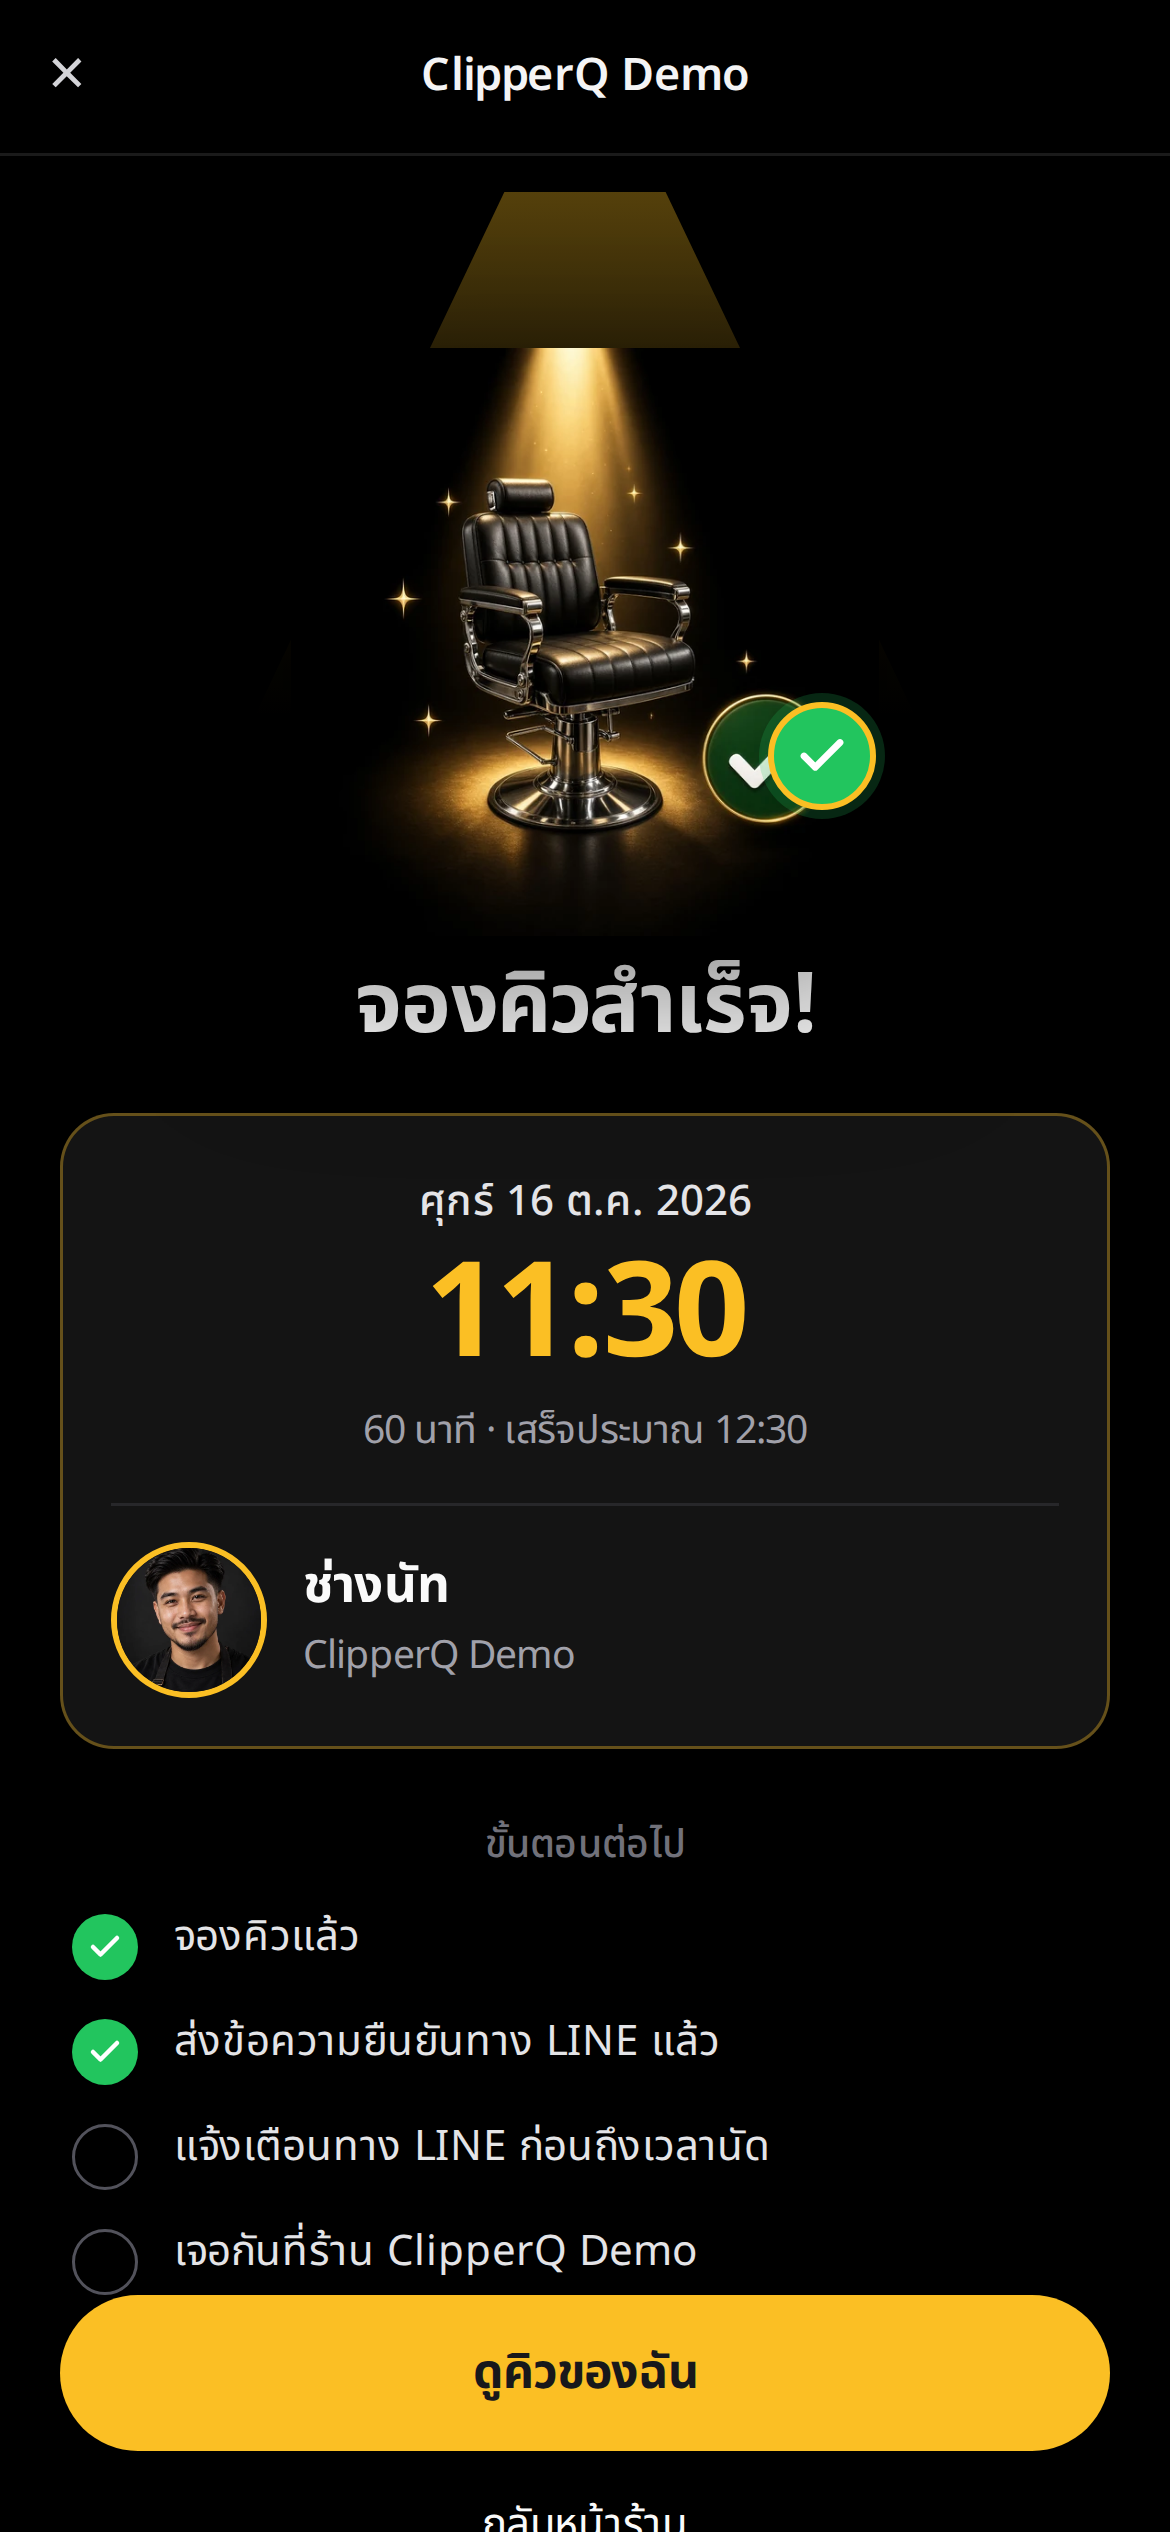
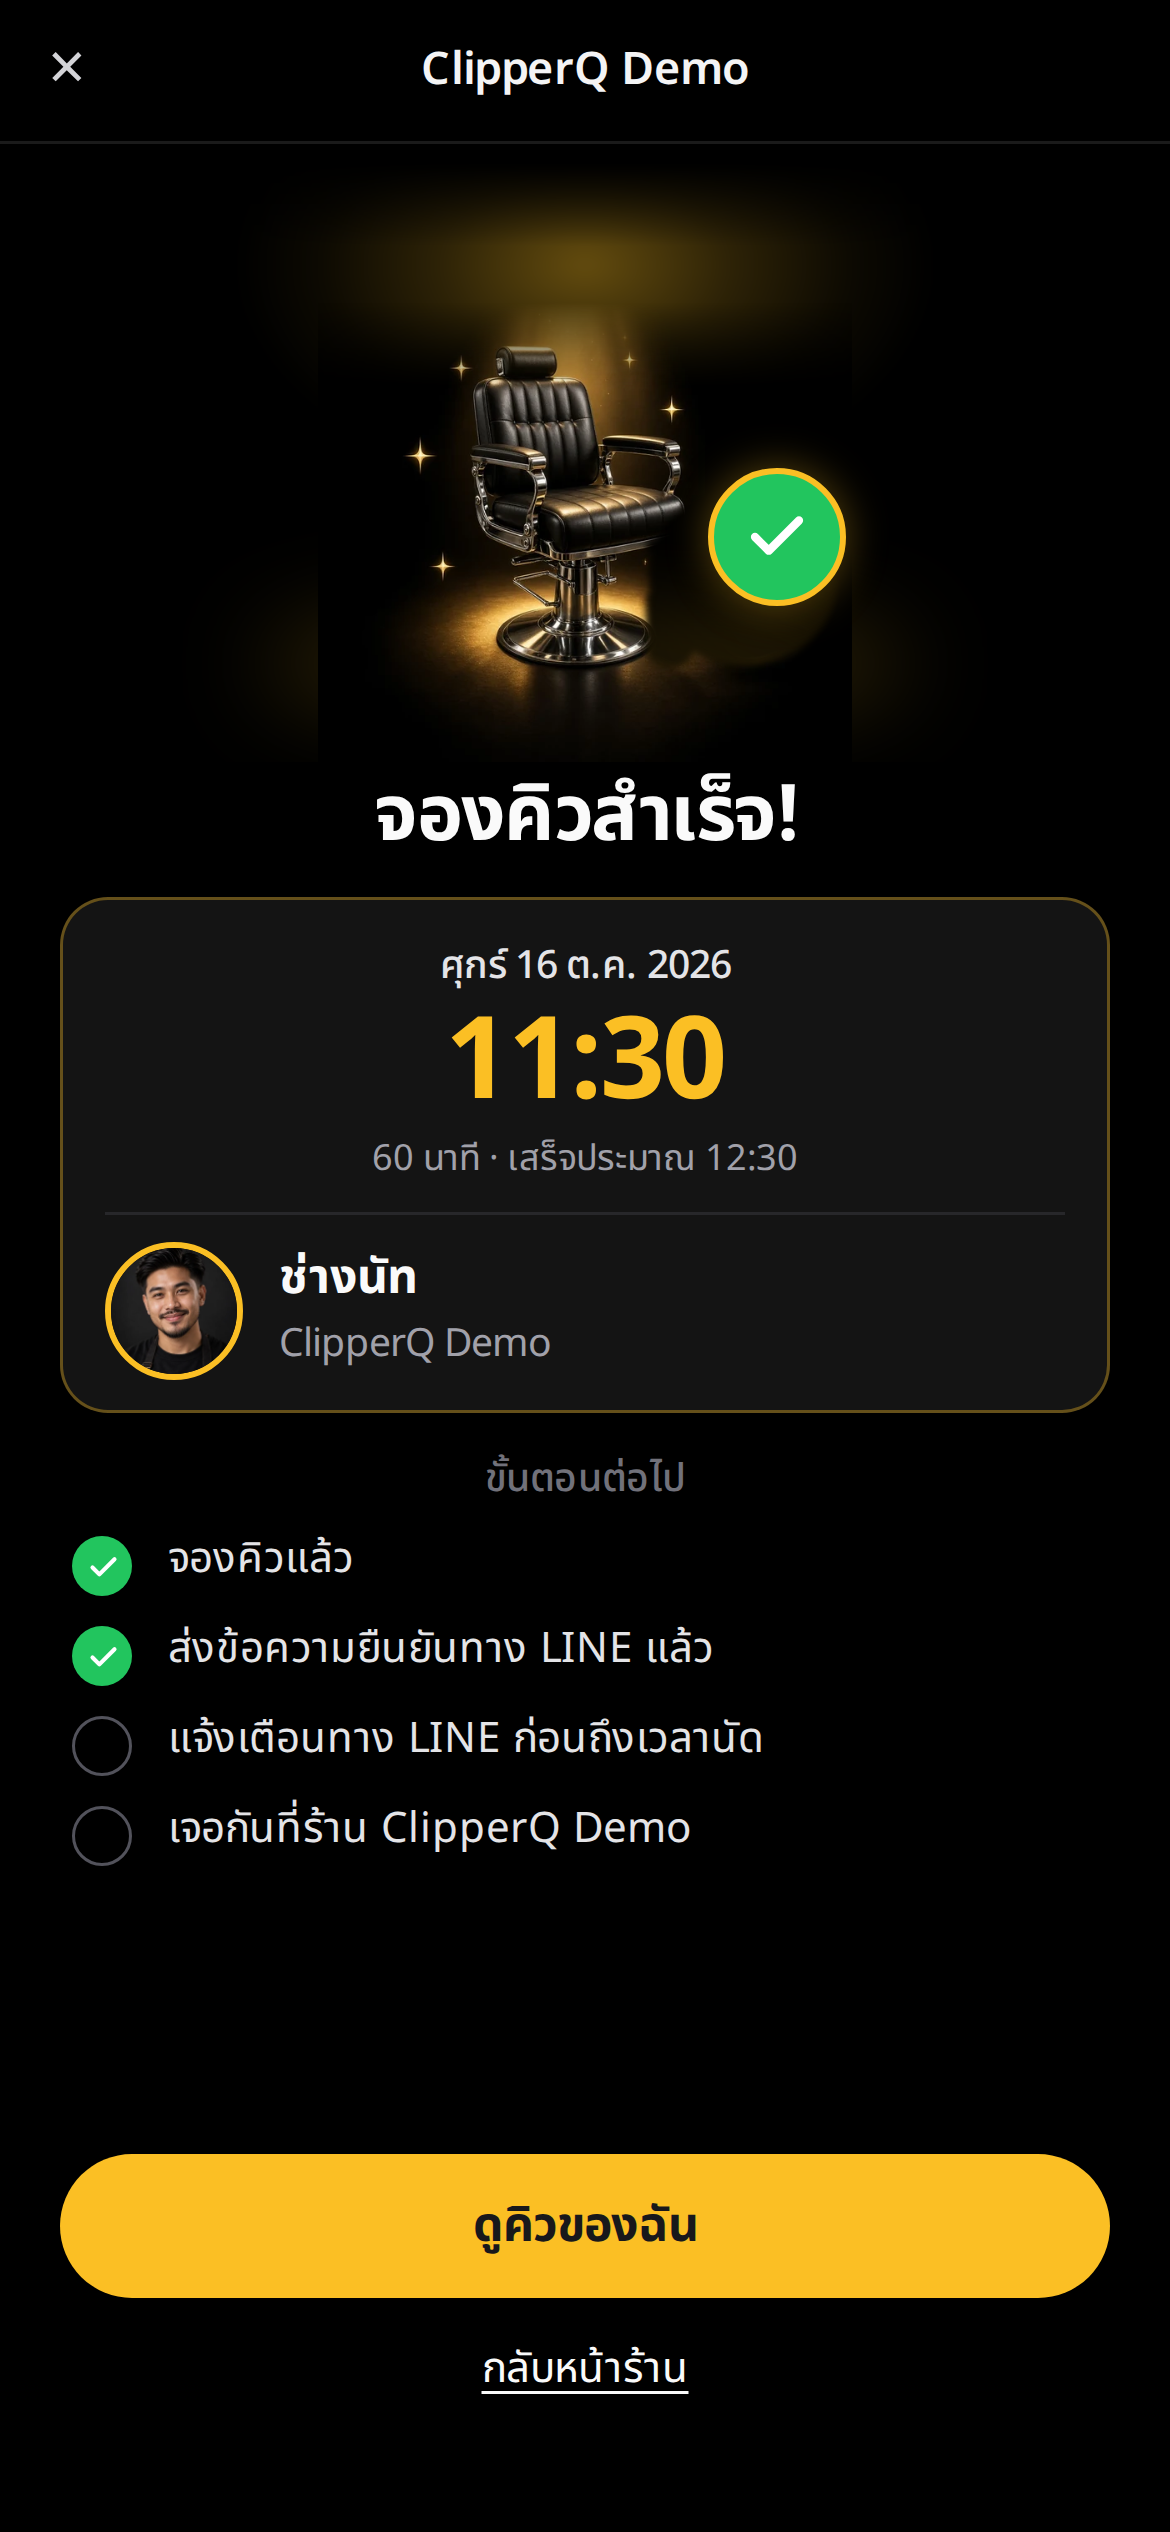
Recapture booking-success screen after animations settle
Disable motion for capture, soft-fade the baked lamp top, punch the
ghost check hole, and overlay a single static badge so the 1170×2532
PNG has one check, a soft spotlight, and a fully visible back link.

diff --git a/public/sale/booking-success-capture.html b/public/sale/booking-success-capture.html
@@ -8,6 +8,19 @@
   <link rel="preconnect" href="https://fonts.gstatic.com" crossorigin />
   <link href="https://fonts.googleapis.com/css2?family=Noto+Sans+Thai:wght@400;500;600;700&display=swap" rel="stylesheet" />
   <style>
+    /* Capture mode: kill all motion so we never shoot mid-animation */
+    *, *::before, *::after {
+      animation: none !important;
+      animation-duration: 0s !important;
+      transition: none !important;
+      scroll-behavior: auto !important;
+    }
+    @media (prefers-reduced-motion: reduce) {
+      *, *::before, *::after {
+        animation: none !important;
+        transition: none !important;
+      }
+    }
     * { box-sizing: border-box; margin: 0; padding: 0; }
     html, body {
       width: 390px;
@@ -26,7 +39,7 @@
       flex-direction: column;
     }
     .topbar {
-      height: 52px;
+      height: 48px;
       display: flex;
       align-items: center;
       justify-content: center;
@@ -39,8 +52,6 @@
       left: 16px;
       top: 50%;
       transform: translateY(-50%);
-      width: 22px;
-      height: 22px;
       color: #d4d4d8;
       font-size: 22px;
       line-height: 1;
@@ -54,82 +65,128 @@
     }
     .body {
       flex: 1;
-      padding: 8px 20px 20px;
+      min-height: 0;
+      padding: 4px 20px 28px;
       display: flex;
       flex-direction: column;
       align-items: stretch;
     }
     .hero {
       position: relative;
-      height: 248px;
+      height: 200px;
+      flex-shrink: 0;
       display: flex;
       align-items: flex-end;
       justify-content: center;
-      margin-top: 4px;
+      margin-top: 2px;
+      overflow: hidden;
     }
-    .beam {
+    /* Soft spotlight only — glow centered below top edge so no hard trapezoid cut */
+    .soft-beam {
       position: absolute;
       top: 0;
-      left: 18%;
-      right: 18%;
-      height: 72%;
-      background: linear-gradient(
-        to bottom,
-        rgba(251, 191, 36, 0.34),
-        rgba(251, 191, 36, 0.1) 48%,
-        transparent
-      );
-      clip-path: polygon(38% 0, 62% 0, 100% 100%, 0 100%);
+      left: 50%;
+      transform: translateX(-50%);
+      width: 78%;
+      height: 78%;
       pointer-events: none;
+      z-index: 0;
+      background: radial-gradient(
+        ellipse 52% 58% at 50% 22%,
+        rgba(251, 191, 36, 0.40) 0%,
+        rgba(251, 191, 36, 0.18) 34%,
+        rgba(251, 191, 36, 0.05) 62%,
+        transparent 82%
+      );
+      filter: blur(3px);
+      -webkit-mask-image: linear-gradient(to bottom, transparent 0%, black 18%, black 100%);
+      mask-image: linear-gradient(to bottom, transparent 0%, black 18%, black 100%);
+    }
+    .hero-glow {
+      position: absolute;
+      left: 50%;
+      bottom: 16px;
+      transform: translateX(-50%);
+      width: 62%;
+      height: 34px;
+      border-radius: 100%;
+      background: rgba(251, 191, 36, 0.22);
+      filter: blur(16px);
+      pointer-events: none;
+      z-index: 0;
     }
     .hero img.chair {
       position: relative;
       z-index: 1;
-      width: 196px;
+      width: 178px;
       height: auto;
-      filter: drop-shadow(0 14px 28px rgba(0, 0, 0, 0.55));
+      /* Hide baked hard lamp at top of asset */
+      -webkit-mask-image: linear-gradient(
+        to bottom,
+        transparent 0%,
+        transparent 14%,
+        rgba(0, 0, 0, 0.35) 20%,
+        black 30%,
+        black 100%
+      );
+      mask-image: linear-gradient(
+        to bottom,
+        transparent 0%,
+        transparent 14%,
+        rgba(0, 0, 0, 0.35) 20%,
+        black 30%,
+        black 100%
+      );
+      filter: drop-shadow(0 12px 24px rgba(0, 0, 0, 0.55));
     }
+    /* Exactly one settled check badge — no animation (asset hole is transparent) */
     .check-badge {
       position: absolute;
-      z-index: 2;
-      right: 78px;
-      bottom: 42px;
-      width: 36px;
-      height: 36px;
+      z-index: 3;
+      right: 88px;
+      bottom: 52px;
+      width: 46px;
+      height: 46px;
       border-radius: 999px;
       background: #22c55e;
-      border: 2px solid #fbbf24;
+      border: 2.5px solid #fbbf24;
+      box-shadow: 0 0 14px rgba(251, 191, 36, 0.35);
       display: flex;
       align-items: center;
       justify-content: center;
-      box-shadow: 0 0 0 3px rgba(34, 197, 94, 0.2);
+      pointer-events: none;
     }
-    .check-badge svg { width: 18px; height: 18px; }
+    .check-badge svg {
+      width: 22px;
+      height: 22px;
+    }
     h1 {
       text-align: center;
-      font-size: 28px;
+      font-size: 26px;
       font-weight: 700;
       letter-spacing: -0.02em;
-      margin-top: 6px;
+      margin-top: 2px;
       line-height: 1.25;
+      flex-shrink: 0;
     }
     .card {
-      margin-top: 18px;
+      margin-top: 10px;
       border: 1px solid rgba(251, 191, 36, 0.35);
-      border-radius: 18px;
+      border-radius: 16px;
       background: #141414;
-      padding: 18px 16px 16px;
+      padding: 12px 14px 10px;
+      flex-shrink: 0;
     }
     .date {
       text-align: center;
-      font-size: 14px;
+      font-size: 13px;
       font-weight: 500;
       color: #e4e4e7;
     }
     .time {
       text-align: center;
-      margin-top: 4px;
-      font-size: 44px;
+      margin-top: 2px;
+      font-size: 38px;
       font-weight: 700;
       color: #fbbf24;
       letter-spacing: -0.03em;
@@ -137,12 +194,12 @@
     }
     .duration {
       text-align: center;
-      margin-top: 4px;
-      font-size: 13px;
+      margin-top: 2px;
+      font-size: 12px;
       color: #a1a1aa;
     }
     .divider {
-      margin: 14px 0 12px;
+      margin: 9px 0;
       border: 0;
       border-top: 1px solid #27272a;
     }
@@ -152,8 +209,8 @@
       gap: 12px;
     }
     .who img {
-      width: 52px;
-      height: 52px;
+      width: 46px;
+      height: 46px;
       border-radius: 999px;
       object-fit: cover;
       border: 2px solid #fbbf24;
@@ -161,7 +218,7 @@
       flex-shrink: 0;
     }
     .who-name {
-      font-size: 17px;
+      font-size: 16px;
       font-weight: 700;
       color: #fafafa;
       line-height: 1.2;
@@ -172,18 +229,20 @@
       color: #a1a1aa;
     }
     .next-label {
-      margin-top: 22px;
+      margin-top: 12px;
       text-align: center;
       font-size: 13px;
       color: #71717a;
       font-weight: 500;
+      flex-shrink: 0;
     }
     .steps {
-      margin-top: 12px;
+      margin-top: 8px;
       display: flex;
       flex-direction: column;
-      gap: 12px;
+      gap: 9px;
       padding: 0 4px;
+      flex-shrink: 0;
     }
     .step {
       display: flex;
@@ -194,8 +253,8 @@
       line-height: 1.35;
     }
     .step .dot {
-      width: 22px;
-      height: 22px;
+      width: 20px;
+      height: 20px;
       border-radius: 999px;
       flex-shrink: 0;
       margin-top: 1px;
@@ -203,20 +262,23 @@
       align-items: center;
       justify-content: center;
     }
-    .step .dot.done {
-      background: #22c55e;
-    }
+    .step .dot.done { background: #22c55e; }
     .step .dot.todo {
       border: 1.5px solid #52525b;
       background: transparent;
     }
-    .step .dot.done svg { width: 12px; height: 12px; }
-    .cta {
+    .step .dot.done svg { width: 11px; height: 11px; }
+    .footer {
       margin-top: auto;
+      padding-top: 10px;
+      padding-bottom: 4px;
+      flex-shrink: 0;
+    }
+    .cta {
       display: flex;
       align-items: center;
       justify-content: center;
-      height: 52px;
+      height: 48px;
       border-radius: 999px;
       background: #fbbf24;
       color: #18181b;
@@ -226,24 +288,36 @@
     }
     .back {
       margin-top: 14px;
+      margin-bottom: 8px;
       text-align: center;
       font-size: 14px;
+      line-height: 1.45;
       color: #fafafa;
       text-decoration: underline;
       text-underline-offset: 3px;
+      padding-bottom: 4px;
     }
   </style>
 </head>
 <body>
-  <div class="phone">
+  <div class="phone" data-capture-ready="pending">
     <header class="topbar">
       <span class="close" aria-hidden="true">×</span>
       <div class="title">ClipperQ Demo</div>
     </header>
     <div class="body">
       <div class="hero">
-        <div class="beam" aria-hidden="true"></div>
-        <img class="chair" src="/images/booking-success-chair.webp" alt="" width="196" height="196" />
+        <div class="soft-beam" aria-hidden="true"></div>
+        <div class="hero-glow" aria-hidden="true"></div>
+        <img
+          class="chair"
+          src="/sale/booking-success-chair-capture.png"
+          alt=""
+          width="178"
+          height="178"
+          decoding="sync"
+          loading="eager"
+        />
         <div class="check-badge" aria-hidden="true">
           <svg viewBox="0 0 24 24" fill="none" stroke="#fff" stroke-width="3" stroke-linecap="round" stroke-linejoin="round">
             <polyline points="20 6 9 17 4 12" />
@@ -258,7 +332,7 @@
         <div class="duration">60 นาที · เสร็จประมาณ 12:30</div>
         <hr class="divider" />
         <div class="who">
-          <img src="/sale/booking-success-barber.webp" alt="ช่างนัท" width="52" height="52" />
+          <img src="/sale/booking-success-barber.webp" alt="ช่างนัท" width="46" height="46" decoding="sync" loading="eager" />
           <div>
             <div class="who-name">ช่างนัท</div>
             <div class="who-shop">ClipperQ Demo</div>
@@ -294,9 +368,31 @@
         </div>
       </div>
 
-      <a class="cta" href="#">ดูคิวของฉัน</a>
-      <div class="back">กลับหน้าร้าน</div>
+      <div class="footer">
+        <a class="cta" href="#">ดูคิวของฉัน</a>
+        <div class="back">กลับหน้าร้าน</div>
+      </div>
     </div>
   </div>
+  <script>
+    // Mark ready only after fonts, images, and two animation frames settle.
+    (async function () {
+      try {
+        if (document.fonts && document.fonts.ready) await document.fonts.ready;
+      } catch (_) {}
+      const imgs = Array.from(document.images);
+      await Promise.all(imgs.map((img) => {
+        if (img.complete && img.naturalWidth > 0) return Promise.resolve();
+        return new Promise((resolve) => {
+          img.addEventListener("load", resolve, { once: true });
+          img.addEventListener("error", resolve, { once: true });
+        });
+      }));
+      await new Promise((r) => requestAnimationFrame(() => requestAnimationFrame(r)));
+      // Extra settle time for any late paints / decoded frames
+      await new Promise((r) => setTimeout(r, 800));
+      document.querySelector(".phone").dataset.captureReady = "1";
+    })();
+  </script>
 </body>
 </html>
